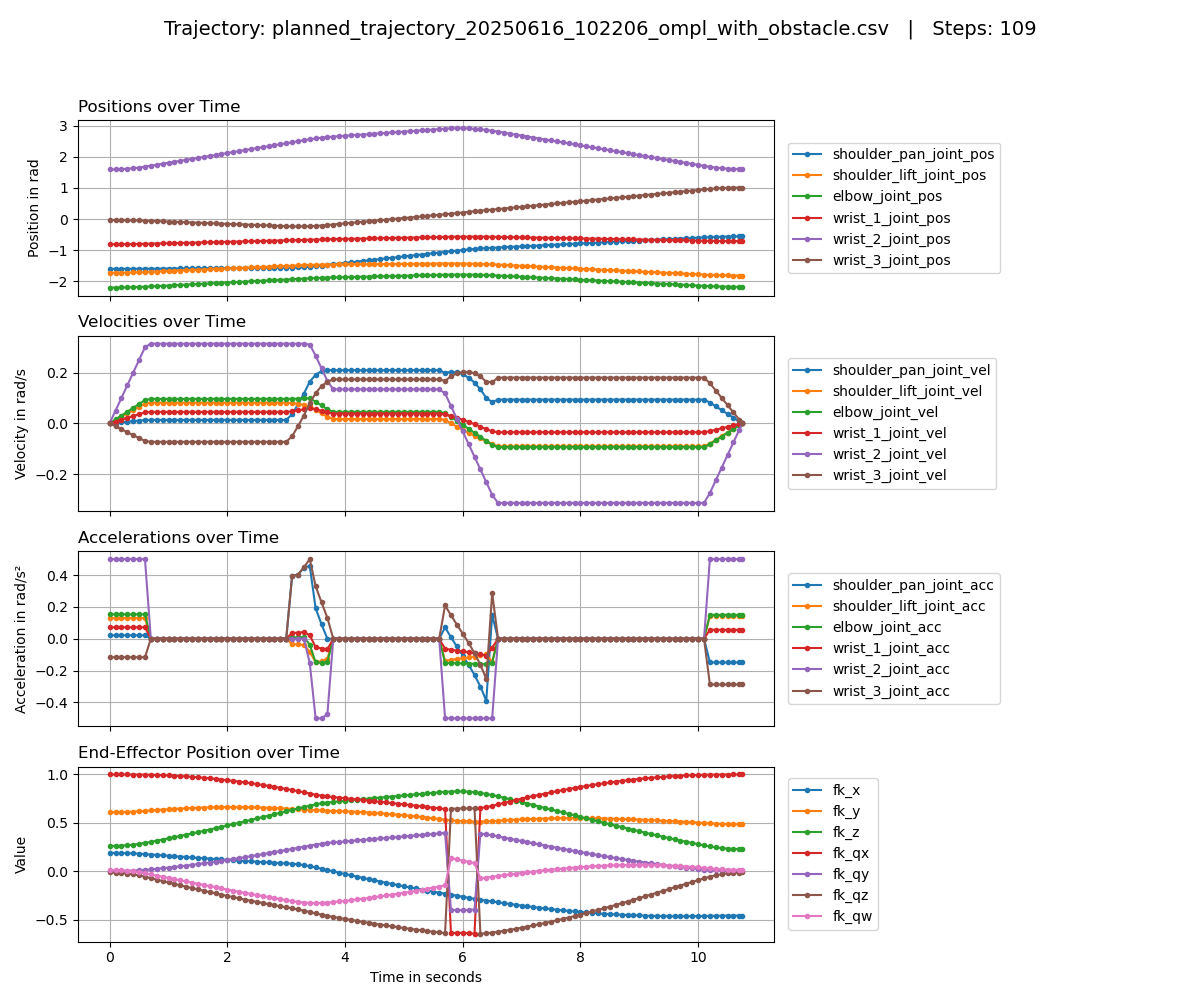
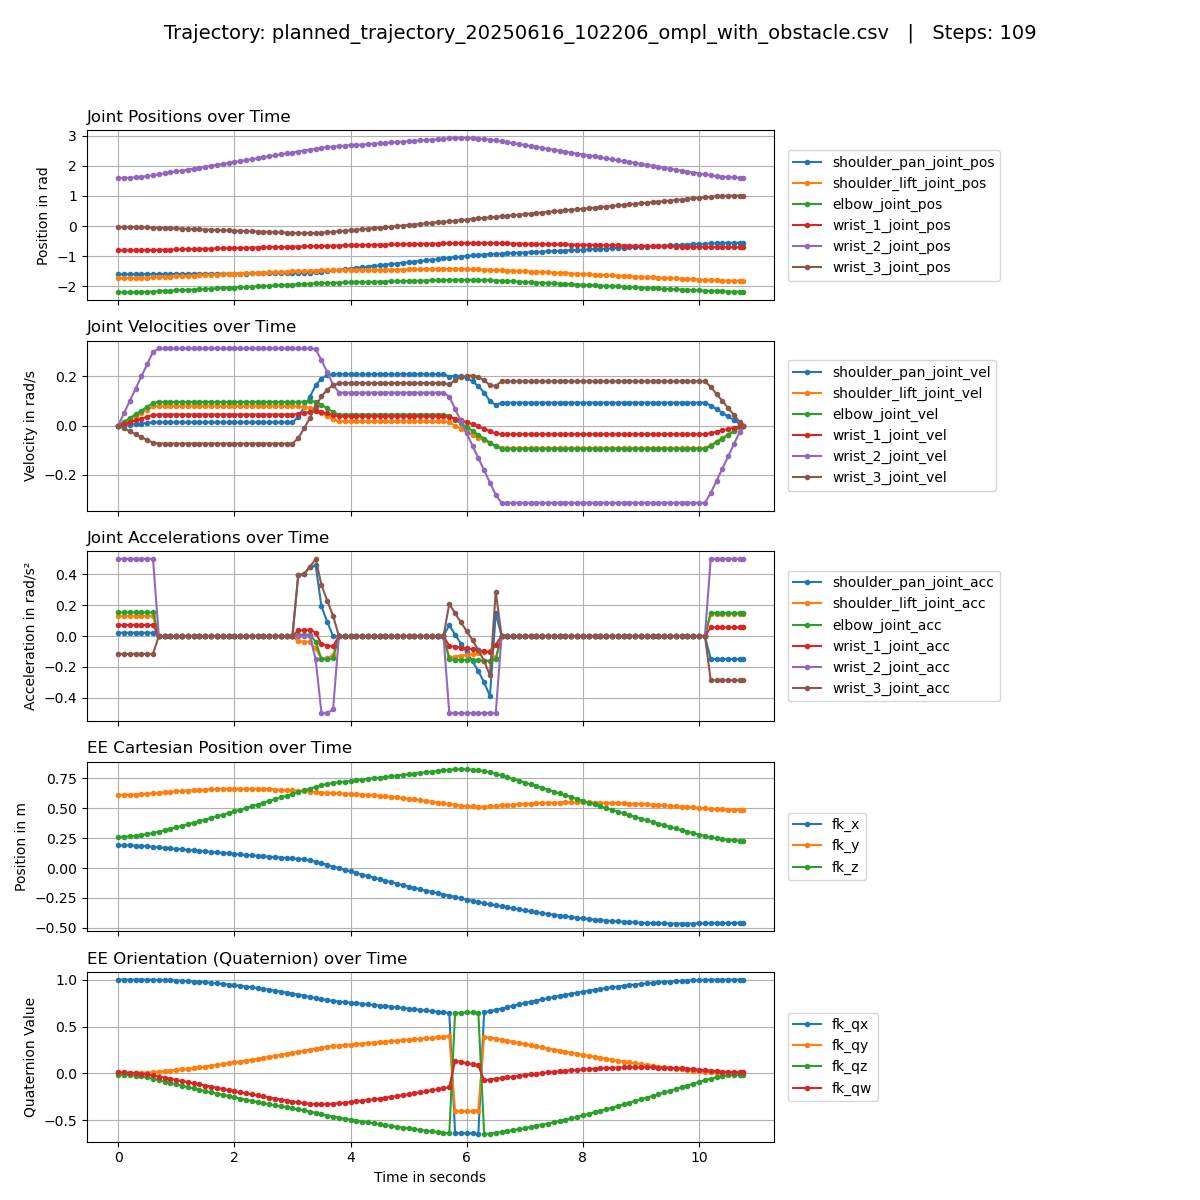
separate plots for position and quaternion

diff --git a/primitives_from_planned_trajectory/plot_saved_trajectory.py b/primitives_from_planned_trajectory/plot_saved_trajectory.py
@@ -44,10 +44,12 @@ def plot_trajectory(data, fieldnames, filepath):
     vel_fields = [f for f in fieldnames if f.endswith('_vel')]
     acc_fields = [f for f in fieldnames if f.endswith('_acc')]
 
-    cart_ee_fields = ['fk_x', 'fk_y', 'fk_z', 'fk_qx', 'fk_qy', 'fk_qz', 'fk_qw']
-    has_cart_ee = all(f in fieldnames for f in cart_ee_fields)
+    cart_pos_fields = ['fk_x', 'fk_y', 'fk_z']
+    cart_quat_fields = ['fk_qx', 'fk_qy', 'fk_qz', 'fk_qw']
+    has_cart_ee = all(f in fieldnames for f in cart_pos_fields + cart_quat_fields)
 
-    fig, axes = plt.subplots(4 if has_cart_ee else 3, 1, sharex=True, figsize=(12, 10 if has_cart_ee else 8))
+    n_rows = 5 if has_cart_ee else 3
+    fig, axes = plt.subplots(n_rows, 1, sharex=True, figsize=(12, 12 if has_cart_ee else 8))
     fig.suptitle(f'Trajectory: {filename}   |   Steps: {num_steps}', fontsize=14)
 
     def plot_category(ax, fields, title, ylabel):
@@ -59,12 +61,13 @@ def plot_trajectory(data, fieldnames, filepath):
         ax.grid(True)
         ax.legend(loc='center left', bbox_to_anchor=(1.02, 0.5), borderaxespad=0)
 
-    plot_category(axes[0], pos_fields, 'Positions over Time', 'Position in rad')
-    plot_category(axes[1], vel_fields, 'Velocities over Time', 'Velocity in rad/s')
-    plot_category(axes[2], acc_fields, 'Accelerations over Time', 'Acceleration in rad/s²')
+    plot_category(axes[0], pos_fields, 'Joint Positions over Time', 'Position in rad')
+    plot_category(axes[1], vel_fields, 'Joint Velocities over Time', 'Velocity in rad/s')
+    plot_category(axes[2], acc_fields, 'Joint Accelerations over Time', 'Acceleration in rad/s²')
 
     if has_cart_ee:
-        plot_category(axes[3], cart_ee_fields, 'End-Effector Position over Time', 'Value')
+        plot_category(axes[3], cart_pos_fields, 'EE Cartesian Position over Time', 'Position in m')
+        plot_category(axes[4], cart_quat_fields, 'EE Orientation (Quaternion) over Time', 'Quaternion Value')
 
     axes[-1].set_xlabel('Time in seconds')
     plt.tight_layout(rect=[0, 0, 0.85, 0.95])
@@ -78,7 +81,7 @@ def plot_trajectory(data, fieldnames, filepath):
         y = [float(row['fk_y']) for row in data]
         z = [float(row['fk_z']) for row in data]
         ax3d.plot(x, y, z, marker='o', label='EE Path')
-        
+
         # mark start and end points
         ax3d.scatter(x[0], y[0], z[0], color='red', s=50, label='Start')
         ax3d.scatter(x[-1], y[-1], z[-1], color='green', s=50, label='End')
@@ -106,6 +109,7 @@ def plot_trajectory(data, fieldnames, filepath):
         plt.tight_layout()
         plt.savefig(f'{DEFAULT_DIR}/{basename}_3dplot.png')
         plt.show()
+
 
 def main():
     if len(sys.argv) > 1:
